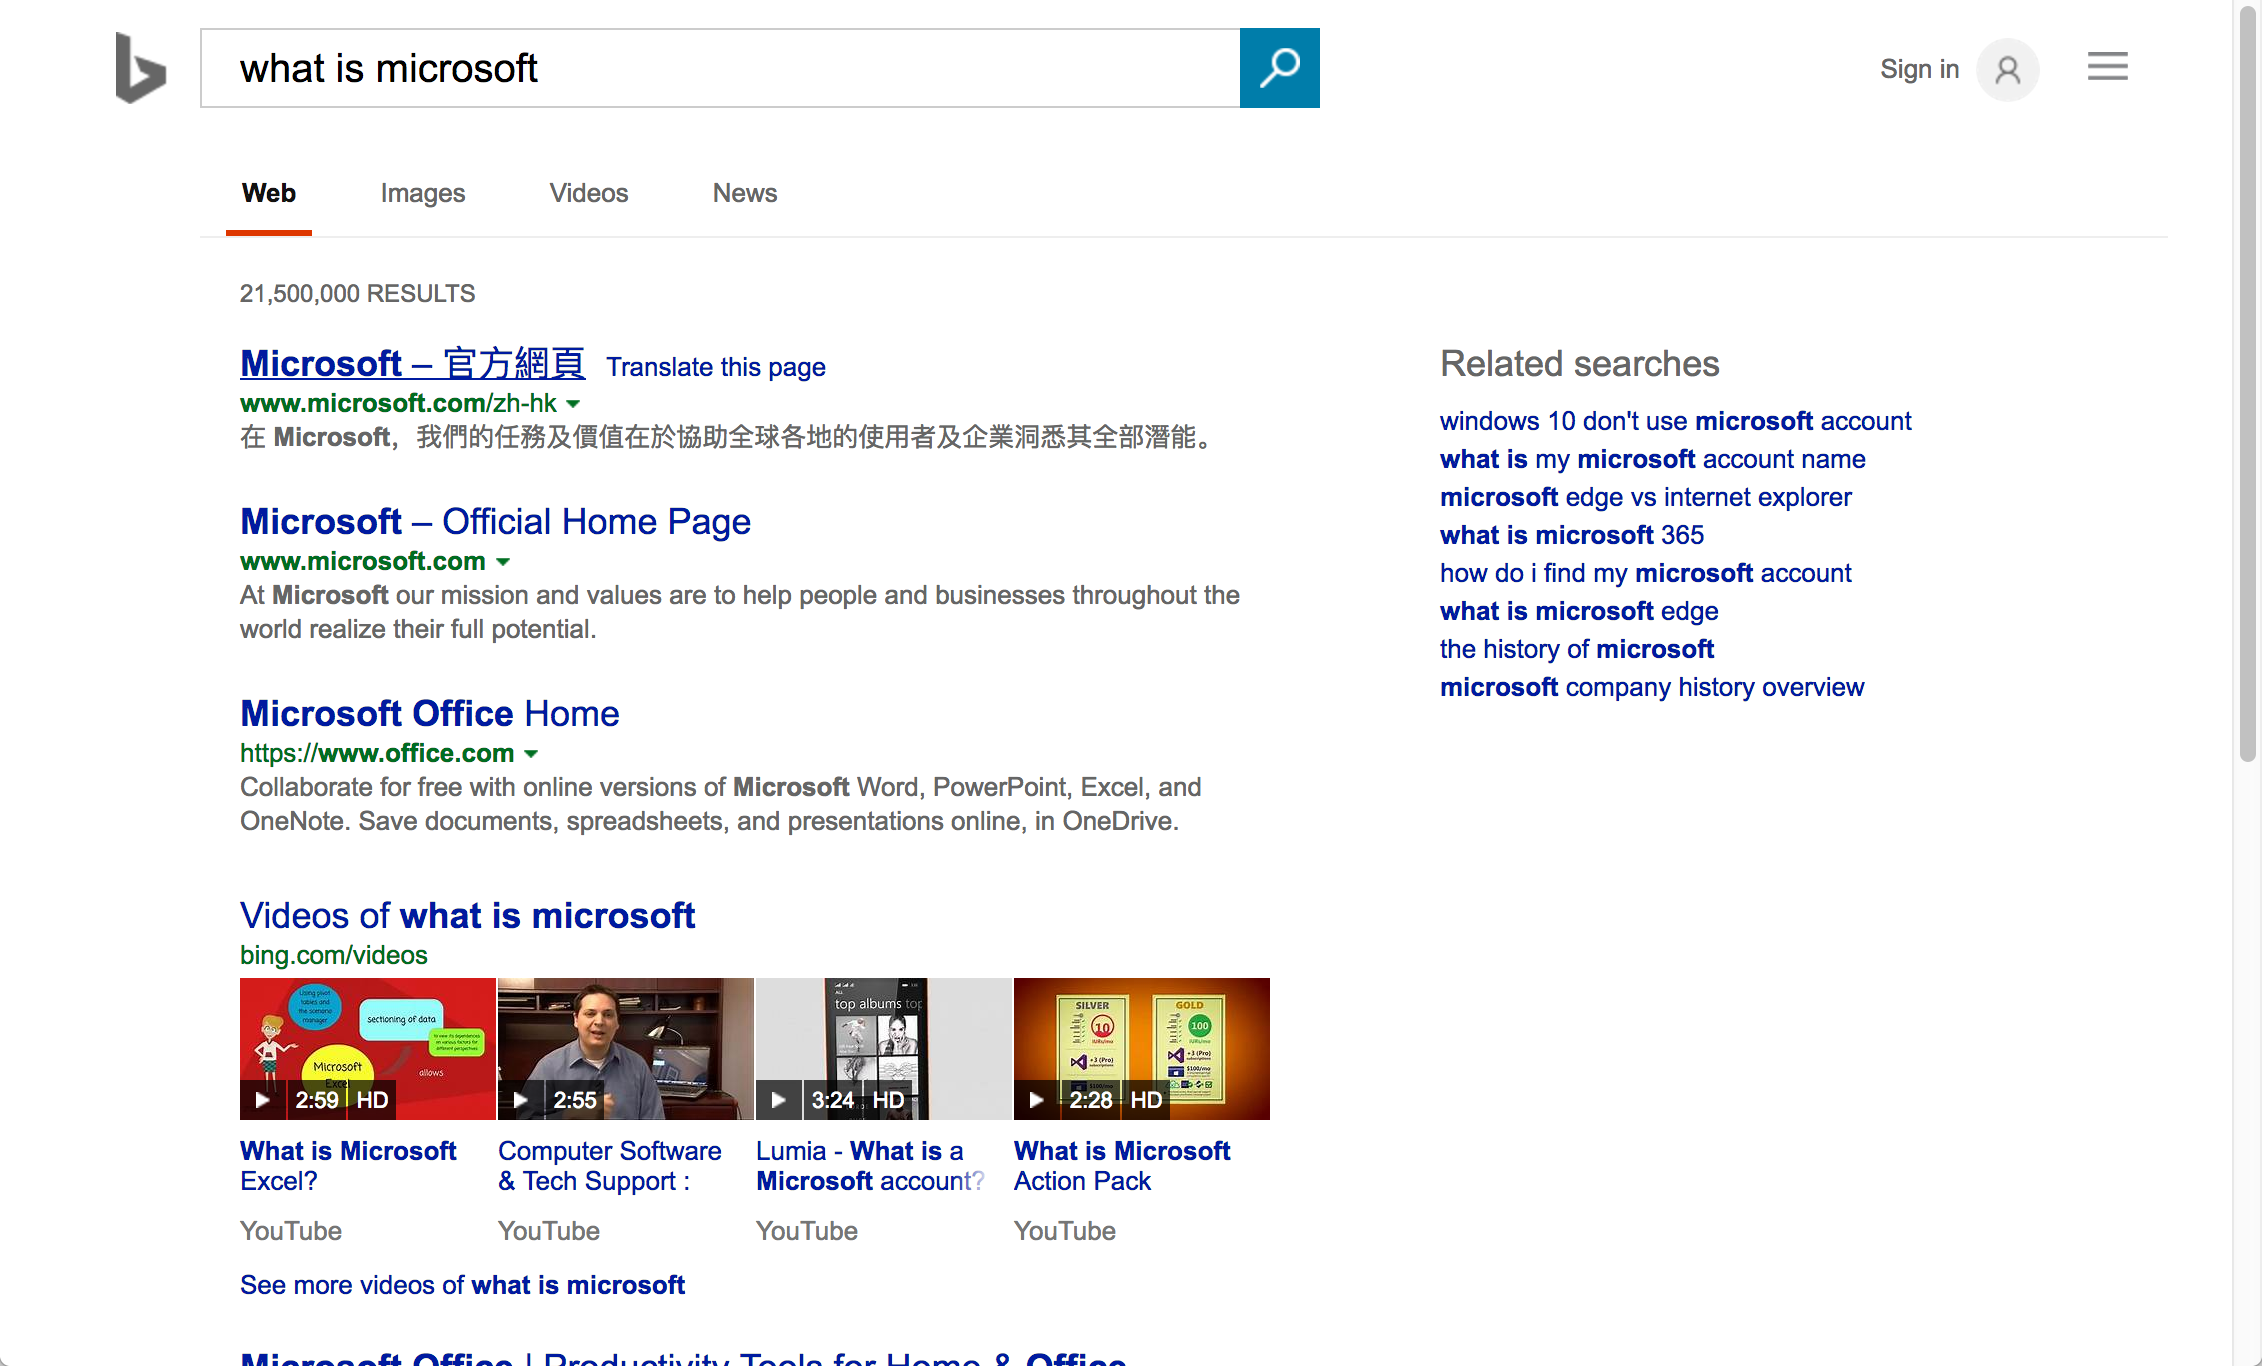
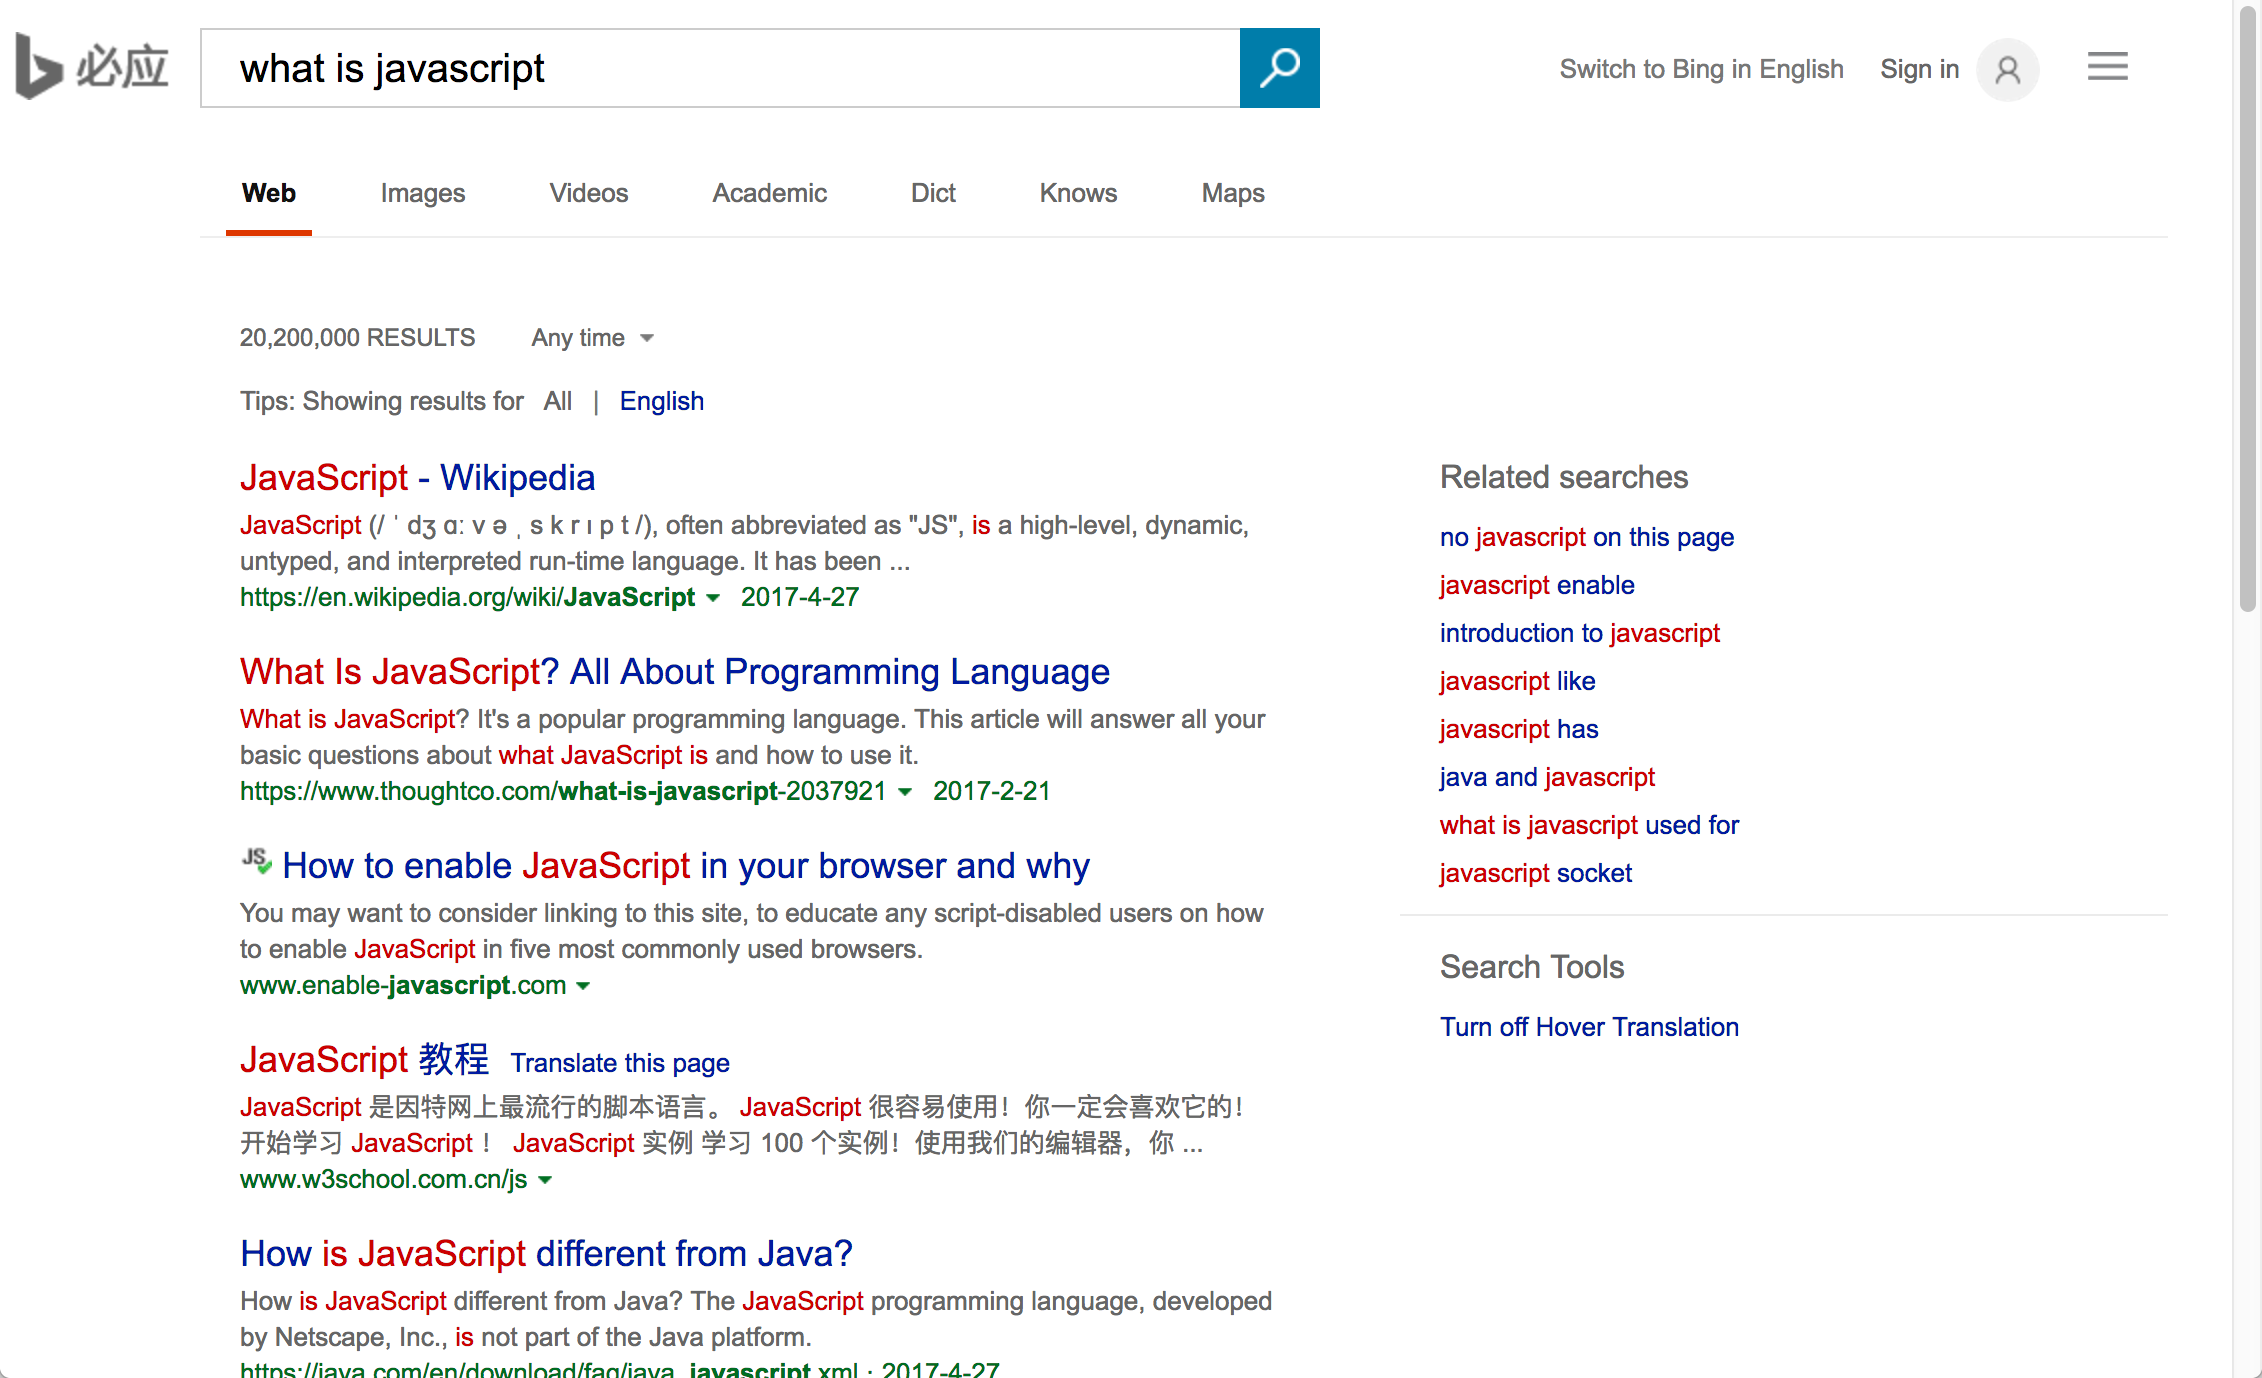
modify the nightwatch.json

diff --git a/tests/demo.js b/tests/demo.js
@@ -3,7 +3,7 @@ module.exports = {
     // 定义 Bing 页面中的节点.
     const searchInput = '#sb_form_q'
     const searchBtn = '#sb_form_go'
-    const question = 'what is microsoft'
+    const question = 'what is javascript'
 
     // 启动浏览器并打开 bing.com.
     client.url('http://bing.com').maximizeWindow()
